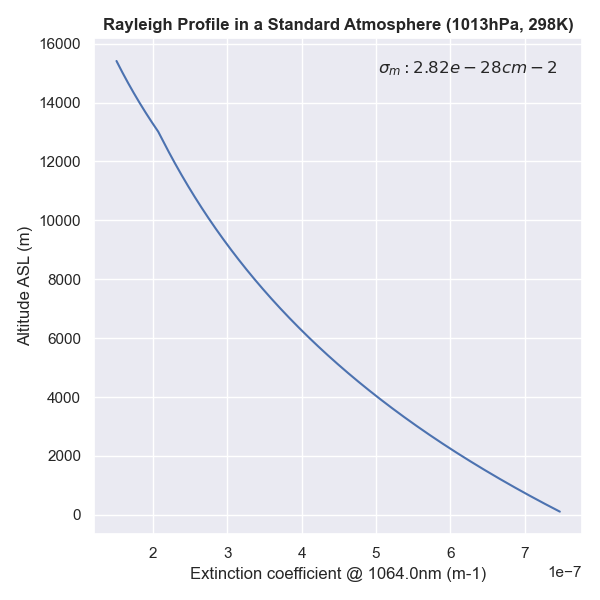
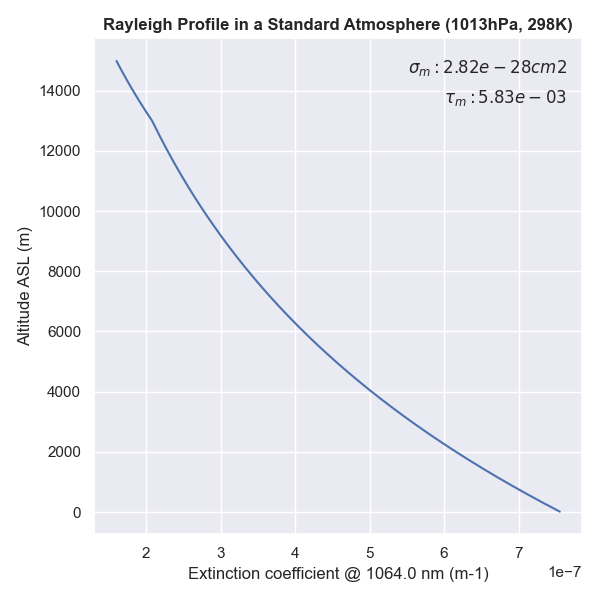
add rayleigh tau and fix cross section units from cm-2 to cm2

diff --git a/aprofiles/rayleigh.py b/aprofiles/rayleigh.py
@@ -107,7 +107,7 @@ class RayleighData:
         # density (cm-3)
         N_m = [Ns * (T0 / P0) * (Pz[i] / Tz[i]) for i in range(len(Pz))]
 
-        # cross section, in cm-2 (adapted from Bodhaine et al., 1999)
+        # cross section, in cm2 (adapted from Bodhaine et al., 1999)
         king_factor = 1.05  # tomasi et al., 2005
         num = 24 * (np.pi ** 3) * ((_refi_air(self.wavelength * 1e-3) ** 2 - 1) ** 2)
         denum = (
@@ -128,9 +128,10 @@ class RayleighData:
         imax = imin + len(z)
 
         # output
-        self.cross_section = section_m  # in cm-2
+        self.cross_section = section_m  # in cm2
         self.backscatter = bmol[imin:imax] * 1e2  # from cm-1 to m-1
         self.extinction = amol[imin:imax] * 1e2  # from cm-1 to m-1
+        self.tau = np.cumsum(self.extinction*(dz*1000))[-1]
 
         return self
 
@@ -159,13 +160,22 @@ class RayleighData:
         fig, ax = plt.subplots(1, 1, figsize=(6, 6))
         plt.plot(self.extinction, self.altitude)
         plt.text(
-            0.95,
+            0.97,
             0.94,
-            f"$\sigma_m: {self.cross_section:.2e} cm-2$",
+            f"$\sigma_m: {self.cross_section:.2e} cm2$",
             horizontalalignment="right",
             verticalalignment="center",
             transform=ax.transAxes,
         )
+        plt.text(
+            0.97,
+            0.88,
+            f"$\u03C4_m: {self.tau:.2e}$",
+            horizontalalignment="right",
+            verticalalignment="center",
+            transform=ax.transAxes,
+        )
+        
         plt.title(
             f"Rayleigh Profile in a Standard Atmosphere ({self.P0}hPa, {self.T0}K)",
             weight="bold",
